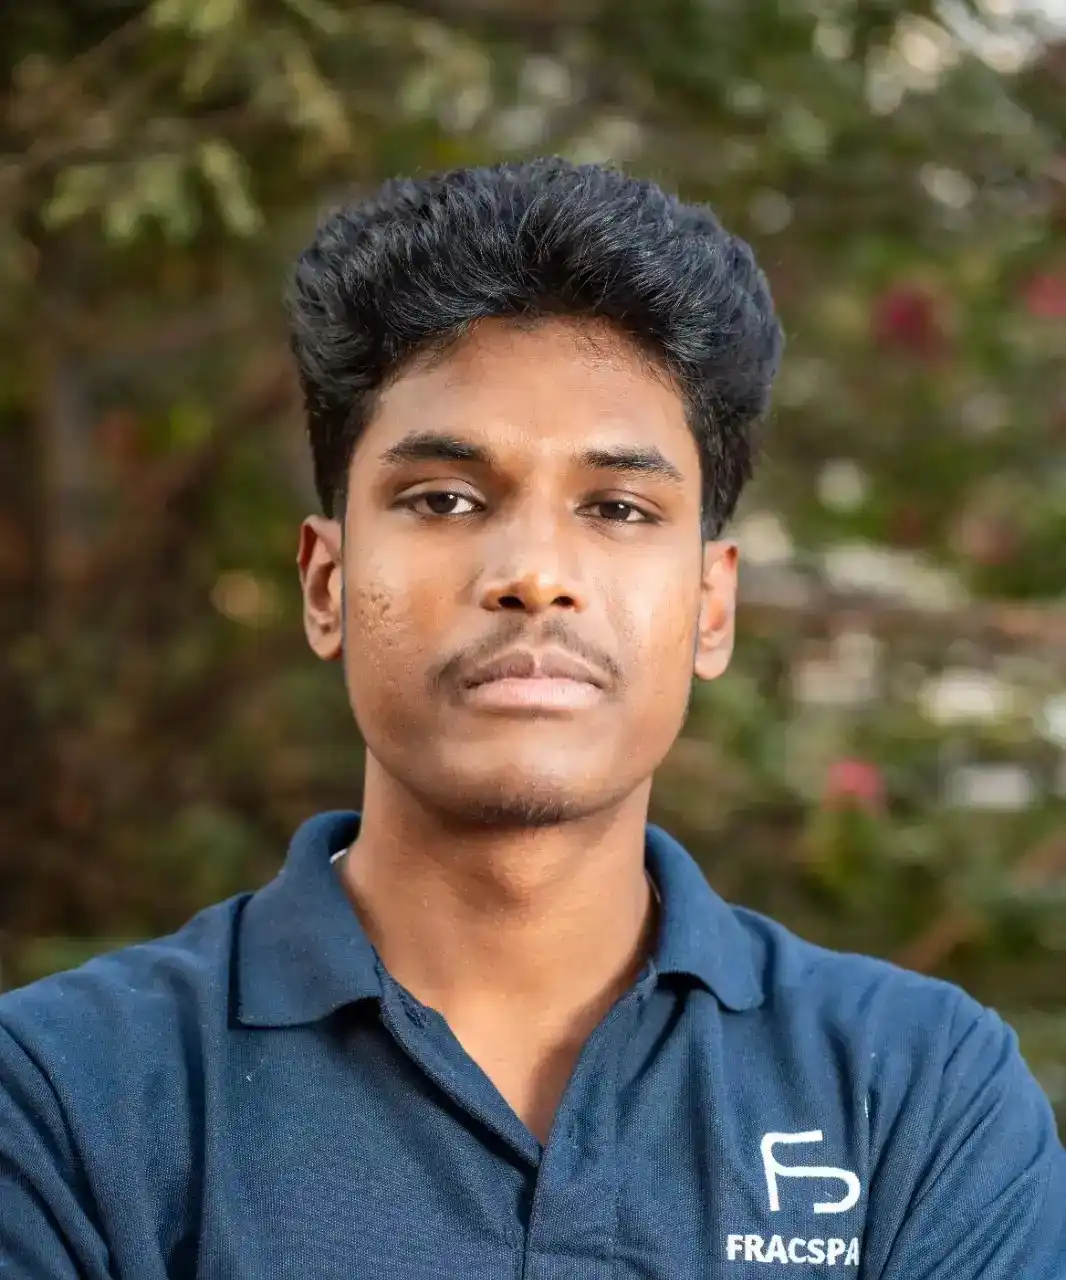
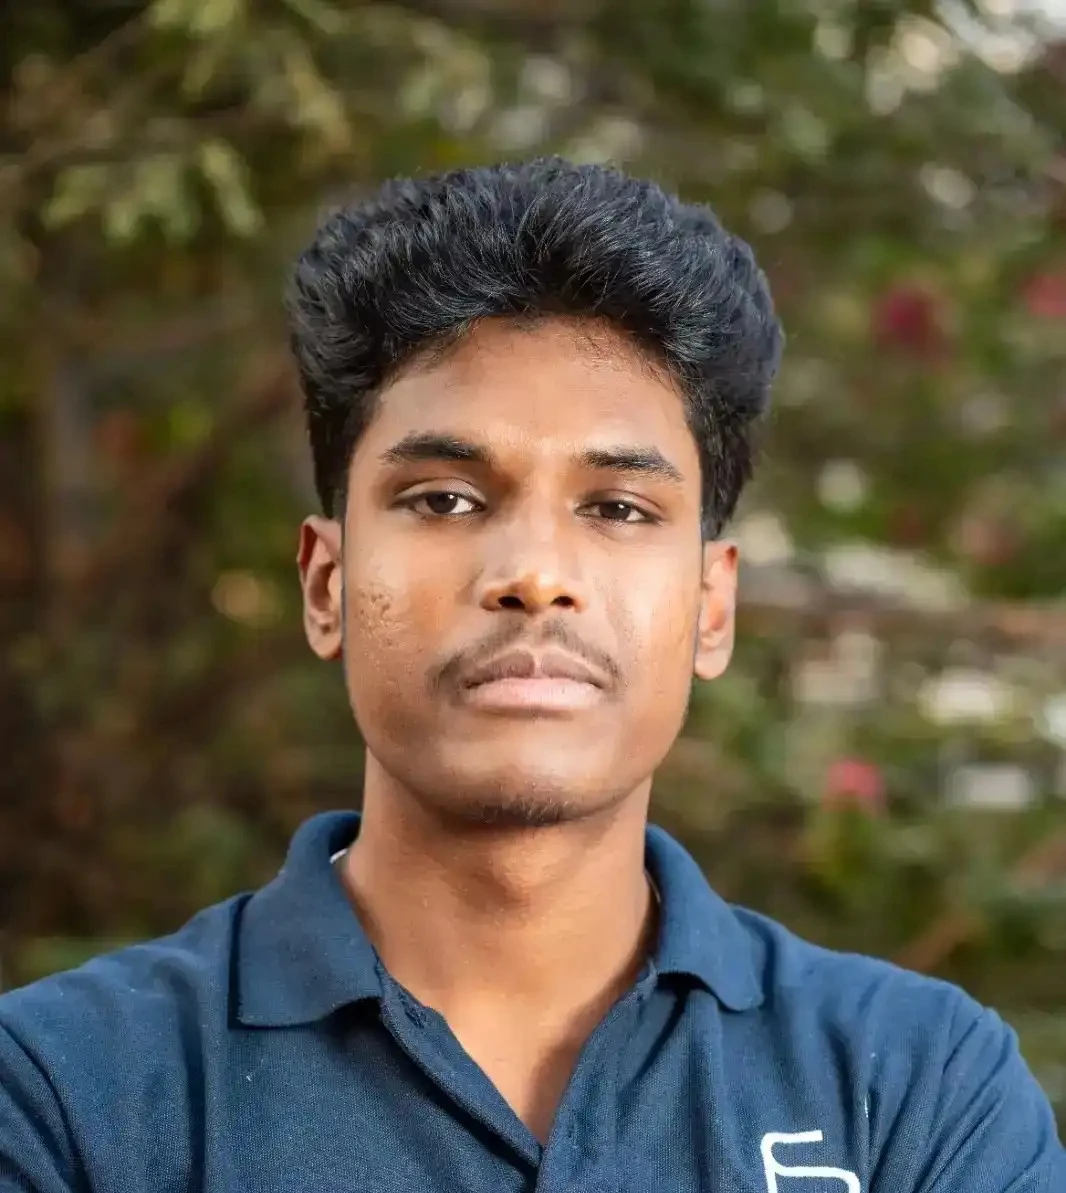
fix: updated image imports and improved responsiveness in Meet Our Team and Footer components

diff --git a/src/components/Footer/Footer.module.css b/src/components/Footer/Footer.module.css
@@ -806,3 +806,42 @@
     margin-top: 2vh;
   }
 }
+
+
+
+@media (max-width:390px) and (max-height:260px){
+  .btn{
+    display: flex;
+    align-items: center;
+    justify-content: center;
+    padding: 3vw;
+  }
+
+  .email{
+    width: 40vw !important;
+    padding: 10px;
+    display: flex;
+    align-items: center;
+    justify-content: center;
+  }
+
+  .icon{
+    width: 2vw;
+    height: 7vh;
+  }
+
+  .instagramIcon{
+    width: 8vw;
+    height: 10vh;
+  }
+
+  .facebookIcon{
+     width: 8vw;
+    height: 10vh;
+  }
+
+  .youtubeIcon{
+     width: 8vw;
+    height: 10vh;
+  }
+}

diff --git a/src/Pages/MeetOurTeam/MeetOurTeam.jsx b/src/Pages/MeetOurTeam/MeetOurTeam.jsx
@@ -24,7 +24,7 @@ import hruthikImg from "../../assets/MeetOurTeam/marketing/hruthik.webp";
 import vivekanandaImg from "../../assets/MeetOurTeam/marketing/vivekananda.webp";
 
 import abhaImg from "../../assets/MeetOurTeam/tech/abha.jpeg";
-import rakeshImg from "../../assets/MeetOurTeam/tech/rakesh.jpeg";
+import rakeshImg from "../../assets/MeetOurTeam/tech/rakesh1.webp";
 import vishnuImg from "../../assets/MeetOurTeam/tech/vishnu.webp";
 import sadikImg from "../../assets/MeetOurTeam/tech/sadikh.webp";
 import tejaswiniImg from "../../assets/MeetOurTeam/tech/tejaswini.webp";

diff --git a/src/components/Navbar2/Navbar2.module.css b/src/components/Navbar2/Navbar2.module.css
@@ -312,6 +312,7 @@
   }
 
   .logo {
+    
   }
 
   .logo img {
@@ -402,5 +403,24 @@
 
   .menu3 {
     margin-left: -55vw;
+  }
+}
+
+
+@media (max-width:390px) and (max-height:260px){
+  .logo1{
+    width: 15vw !important;
+  }
+  .main2{
+    margin-top: 0vh;
+  }
+
+   .menuButton{
+    width: 10px;
+    height: 15px;
+    display: flex;
+    align-items: center;
+    justify-content: center;
+    cursor: pointer;
   }
 }

diff --git a/src/components/Footer/Footer.jsx b/src/components/Footer/Footer.jsx
@@ -185,7 +185,7 @@ function Footer() {
               </>
             )}
 
-            <div className={Style.email}>
+            <div className={Style.emailAddress}>
               {" "}
               <img className={Style.icon} src={emailIcon}></img>{" "}
               support@fracspace.com

diff --git a/src/Pages/MeetOurTeam/MeetOurTeam.module.css b/src/Pages/MeetOurTeam/MeetOurTeam.module.css
@@ -600,3 +600,14 @@
     }
 
 }
+
+
+@media (max-width:390px) and (max-height:260px){
+  .linkedInContainer{
+    width: 5vw !important;
+  }
+
+  .itemImage{
+    width: 10vw !important;
+  }
+}
